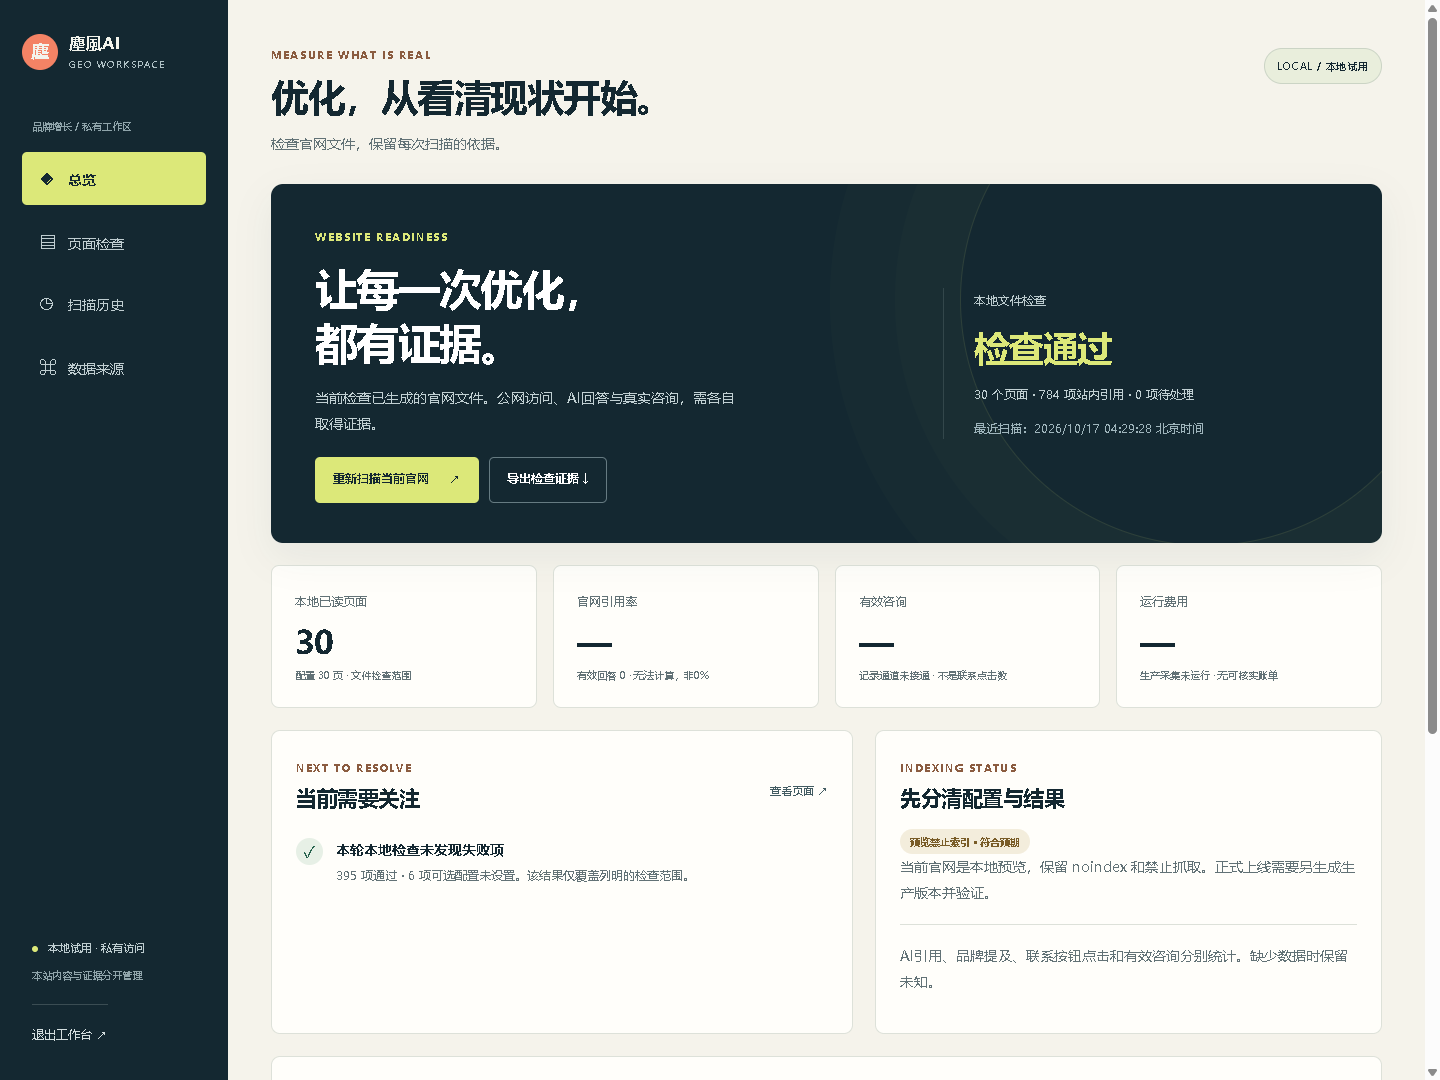
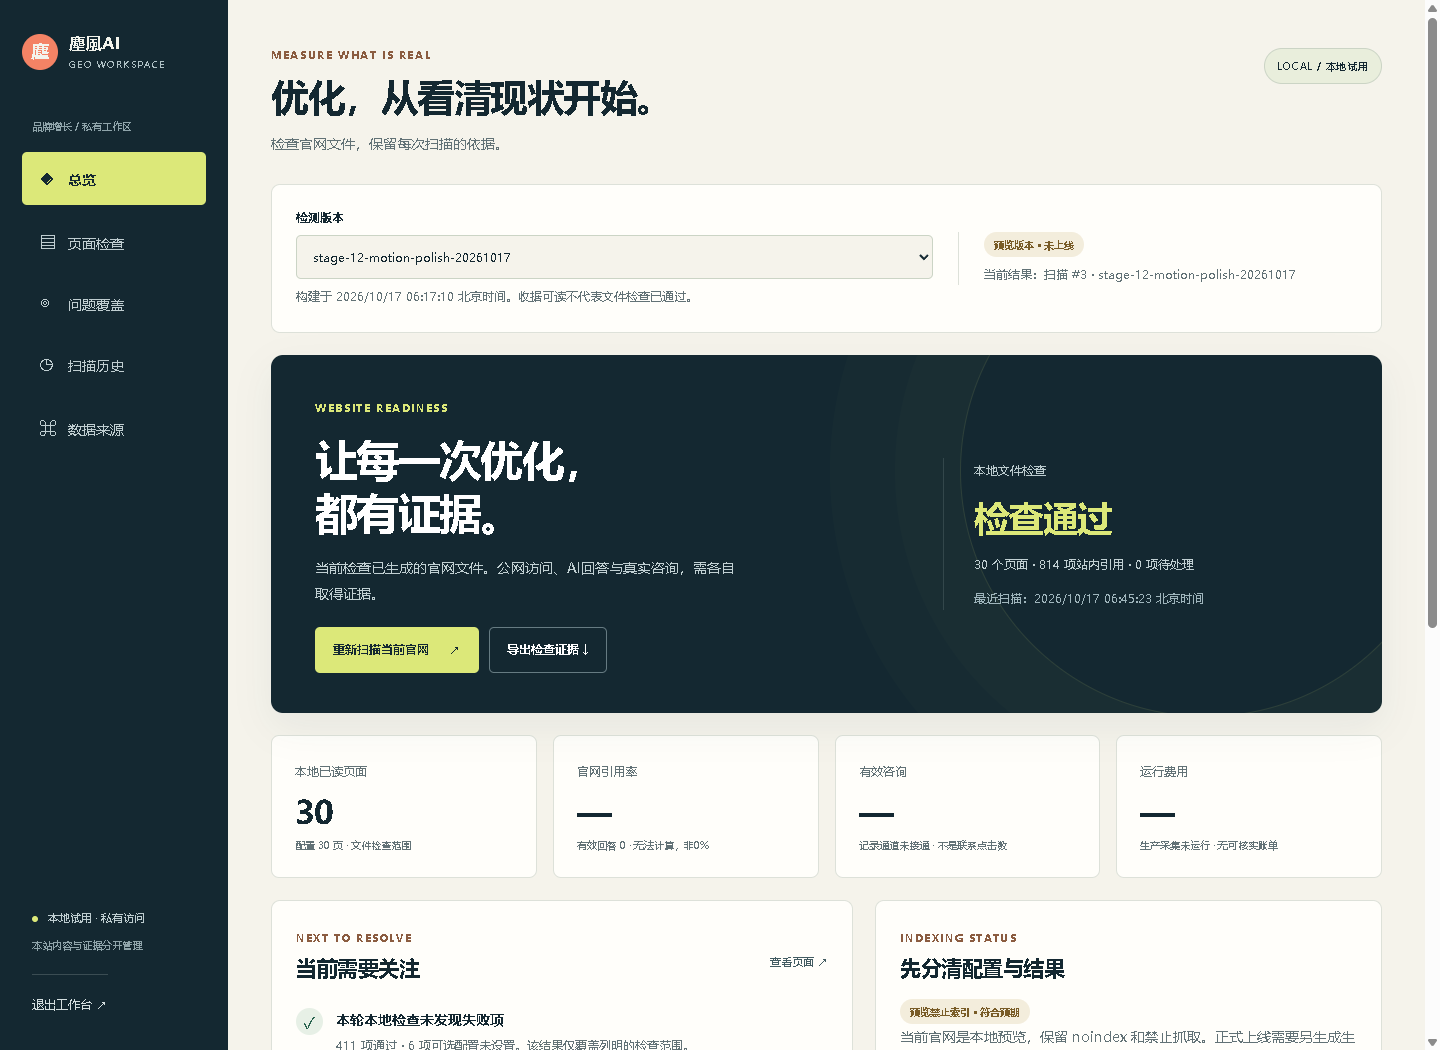
docs: record stage 13 versioned website audit
Add version selection, question coverage and catalog validation notes with anonymous dashboard previews. Record actual Muse review scope. Core code and private evidence remain excluded.

diff --git a/stage-13-versioned-audit.md b/stage-13-versioned-audit.md
@@ -1,0 +1,11 @@
+# 阶段13：检测版本与问题覆盖
+
+2026-10-17。独立私有后台支持受控官网版本选择；首次选最新可读收据，随后持久保存，刷新或重启不静默改成其他版本。每次扫描标注自身版本与收据摘要，旧历史保留，不借作当前结果。
+
+真实本地检查：最新官网30页、814站内引用，417项记录（411通过、6可选未设、失败0）；目录6条记录关联12个中英来源页。固定10题和探索4题按当次问题版本保存，支持语言、分组和搜索；正文存在不代表回答质量、热词、AI引用或获客。旧版本仍可选择扫描，未提供目录时明确未配置。
+
+本地针对性测试18项通过；真实Chrome完成切换、扫描、问题筛选、导出、刷新及手机退出，390/360像素五视图无全局横向溢出，页面和控制台错误0。真实下载与私有数据库一致，备份恢复保留全部历史。生产候选文件只代表生成，未验证公网部署。
+
+官网保持阶段12的分层视觉、受限视差、按钮光效和手机降级。没有新增账号、Key、费用、服务或定时任务。Muse已实际返回成品复核：报告双包hash、私密152/152与公开28/28内容hash一致，实际运行临时后台登录、路径注入拒绝、07/12切换与扫描、版本戳和目录检查；未发现具体缺陷。未运行18项pytest或独立重放真实浏览器布局/筛选，采信本机证据。
+
+正式官网尚未部署；国内外消费端数据通道、GPT、A2A、持续运营与实际获客仍待验证。只运营自有官网，以微信/WhatsApp咨询为目标。公开仓库只存摘要与匿名截图，核心源码及原始证据私有。

diff --git a/README.md b/README.md
@@ -21,7 +21,7 @@
 
 ## 阅读顺序
 
-1. [阶段 01](stage-01-research.md) → [02](stage-02-prototype.md) → [03](stage-03-browser.md) → [04](stage-04-resource.md) → [05](stage-05-release.md) → [06](stage-06-astro-visual.md) → [07](stage-07-resources.md) → [08](stage-08-public-sync.md) → [09](stage-09-local-dashboard.md) → [10](stage-10-agent-catalog.md) → [11](stage-11-motion-polish.md) → [12](stage-12-motion-polish.md)。
+1. [阶段 01](stage-01-research.md) → [02](stage-02-prototype.md) → [03](stage-03-browser.md) → [04](stage-04-resource.md) → [05](stage-05-release.md) → [06](stage-06-astro-visual.md) → [07](stage-07-resources.md) → [08](stage-08-public-sync.md) → [09](stage-09-local-dashboard.md) → [10](stage-10-agent-catalog.md) → [11](stage-11-motion-polish.md) → [12](stage-12-motion-polish.md) → [13](stage-13-versioned-audit.md)。
 2. [后续路线](ROADMAP.md)与[公开范围](PUBLICATION-POLICY.md)。
 3. [内容维护规则](CONTENT-MAINTENANCE.md)、[中文简报](workflow-brief.zh.md)、[English brief](workflow-brief.en.md)。
 4. 固定候选问题 `question-baseline.v1.json` 与独立探索问题 `question-exploration.v1.json`；均未测量，不是热词或真实流量数据。
@@ -43,3 +43,7 @@
 ![后台桌面预览](dashboard-desktop-preview.png)
 
 ![后台手机预览](dashboard-mobile-preview.png)
+
+阶段13后台已补检测版本选择、目录事实检查及14题快照筛选；[说明](stage-13-versioned-audit.md)。页面覆盖不代表AI引用或获客。
+
+![问题覆盖预览](dashboard-coverage-preview.png)

diff --git a/ROADMAP.md b/ROADMAP.md
@@ -33,3 +33,7 @@
 ## 后续实际更新 · 阶段12
 
 工作流背景分层、桌面轻微视差、CTA扫光与手机降级已完成本地验收；动画关闭、系统减少动态、无JS正文及联系仍可用。视觉维护规则同步公开；线上性能与获客另行实测。
+
+## 后续实际更新 · 阶段13
+
+私有后台按明确版本读取官网，记录目录一致性和问题映射快照；保留历史、失败与未知外部指标。正式上线、持续消费端采样、GPT、A2A和真实咨询仍需各自验收。
